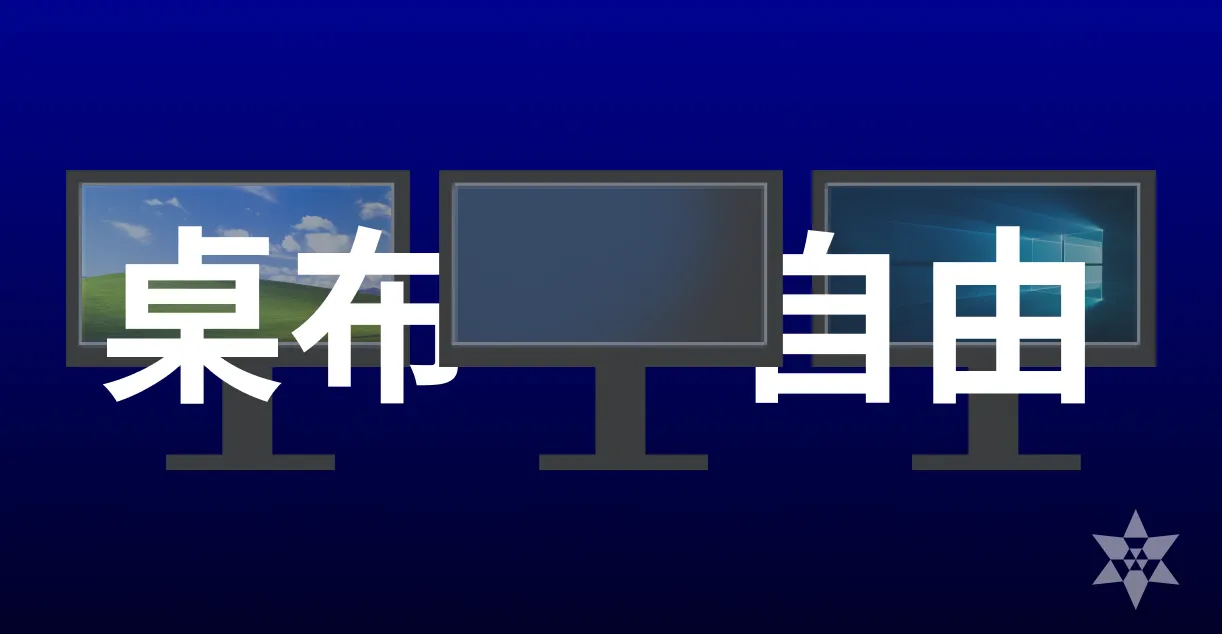
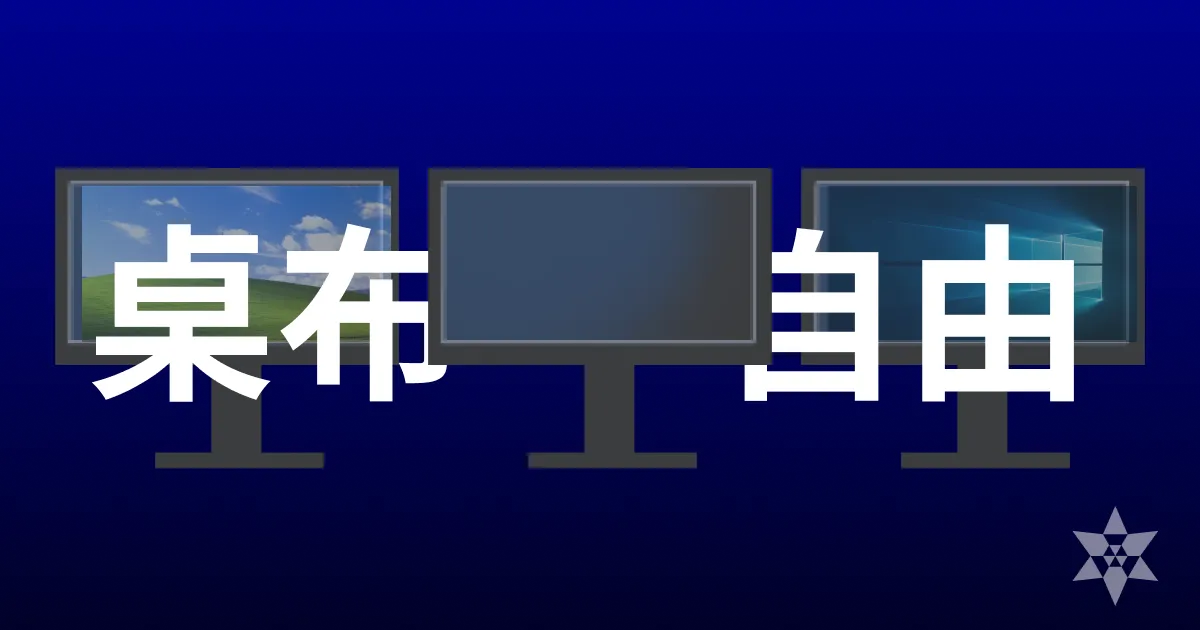
如何快速取得 GitHub 成就 Pair Extraordinaire 金色徽章

diff --git a/post/github-achievement-pair-extraordinaire/index.md b/post/github-achievement-pair-extraordinaire/index.md
@@ -1,0 +1,96 @@
+---
+authors: elvismao
+tags: [GitHub, git, bash]
+categories: [教學, 別說我教的]
+date: 2024-12-31
+---
+
+# 如何快速取得 GitHub 成就 Pair Extraordinaire 金色徽章
+
+你可以在 GitHub 藉由完成特定的動作來解鎖徽章。而 **Pair Extraordinaire** 需要與他人共同提交（Co-authored）並建立拉取請求（Pull Requests）。今天我要來和你分享如何快速達成這個目標，並取得金色的 Pair Extraordinaire 獎牌。
+
+![取得 Pair Extraordinaire 金色獎牌](result.webp)
+
+## 如何獲得 Pair Extraordinaire
+
+首先請你先 clone 或是打開你的專案並編輯任意檔案。這裡為了簡單示範直接用網頁版。
+
+![透過網頁編輯 GitHub 檔案](edit.webp)
+
+接著在 commit 的時候加上 `Co-authored-by` 註解，這樣就能夠記錄到協作者。記得要 push 到一個新的 branch，然後建立一個拉取請求（Pull Request）。
+
+比如說:
+
+```
+Co-authored-by: Elvis Mao <info@elvismao.com>
+```
+
+如果你是用 git commit 的話，步驟如下:
+
+```bash
+git checlout -b new-feature
+echo "Hello, World!" > hello.txt
+git add hello.txt
+git commit -m "Add new feature" -m "Co-authored-by: Elvis Mao <info@elvismao.com>"
+git push --set-upstream origin new-feature
+```
+
+最後建立一個拉取請求（Pull Request）並合併，這樣就能夠解鎖 **Pair Extraordinaire** 成就。
+
+![建立並合併 Pull Request](example.webp)
+
+這個成就有四個不同的級別，從最基本的彩色到金色獎牌。
+
+- **一般 (Basic)**: 提交 1 個 Pull Request
+- **銅色 (Bronze)**: 提交 10 個 Pull Request
+- **銀色 (Silver)**: 提交 24 個 Pull Request
+- **金色 (Gold)**: 提交 48 個 Pull Request
+
+每當你與其他人共同提交 Pull Request 時，你的 GitHub 頭像旁邊會顯示一個「Co-authored-by」的註解，這樣 GitHub 就會認定你參與了協作，並累積相應的成就。
+
+### 快速取得 Pair Extraordinaire 金色獎牌
+
+平常會用共同 commit 的機率就很小了，還會拿來開 Pull Request 根本在我人生中沒發生過。如果你想要快速的取得 **Pair Extraordinaire** 金色獎牌，我們只需要寫一個 bash 來自動編輯檔案、commit、建立 PR、然後自己 merge，這樣就能夠快速的達成目標。
+
+#### 1. 安裝 GitHub CLI
+
+首先請你先確保你有安裝 [GitHub CLI](https://cli.github.com/)。如果你還沒有安裝，可以參考 [這裡](https://github.com/cli/cli#installation) 來安裝。
+
+
+#### 2. 使用 Bash 腳本
+
+接著請你下載我的 [Bash 腳本](https://github.com/Edit-Mr/SSS/blob/main/github/PairExtraordinaire.sh)。你可以手動下載或是直接 curl 這個檔案。
+
+```bash
+git checkout -b elvismao
+for i in {1..10}
+do
+    git checkout elvismao
+    git fetch origin main
+    git merge origin/main --no-ff --no-commit
+    echo "" > emtech.cc
+    git add emtech.cc
+    git commit -m "Create EM" -m "" -m "Co-authored-by: Elvis Mao <info@elvismao.com>"
+    git push --set-upstream origin elvismao
+    gh pr create --title "Create EM" --body "Create EM" --base main --head elvismao
+    gh pr merge --squash --auto
+
+    rm emtech.cc
+    git add emtech.cc
+    git commit -m "Delete EM" -m "" -m "Co-authored-by: Elvis Mao <info@elvismao.com>"
+    git push
+    gh pr create --title "Delete EM" --body "Delete EM" --base main --head elvismao
+    gh pr merge --squash --auto
+done
+```
+接著只需要執行這個腳本，就能夠快速的刷 Pull Request 了。
+
+```bash
+bash PairExtraordinaire.sh
+```
+
+你可以調整這個腳本來符合你的需求，比如說增加或減少提交的次數，或是修改 commit 的內容。這個腳本一次會提交兩次，一次是新增檔案，一次是刪除檔案，所以如果你想要刷 10 次那麼你只需要修改 `{1..10}` 成 `{1..5}` 就好了。
+
+## 總結
+
+使用自動化腳本可以讓你快速的生成與合併 Pull Request。只要按照上面的方法進行操作就能夠快速的解鎖 **Pair Extraordinaire** 金色獎牌。如果你想要快速蒐集的話希望這篇文章對你有幫助。
